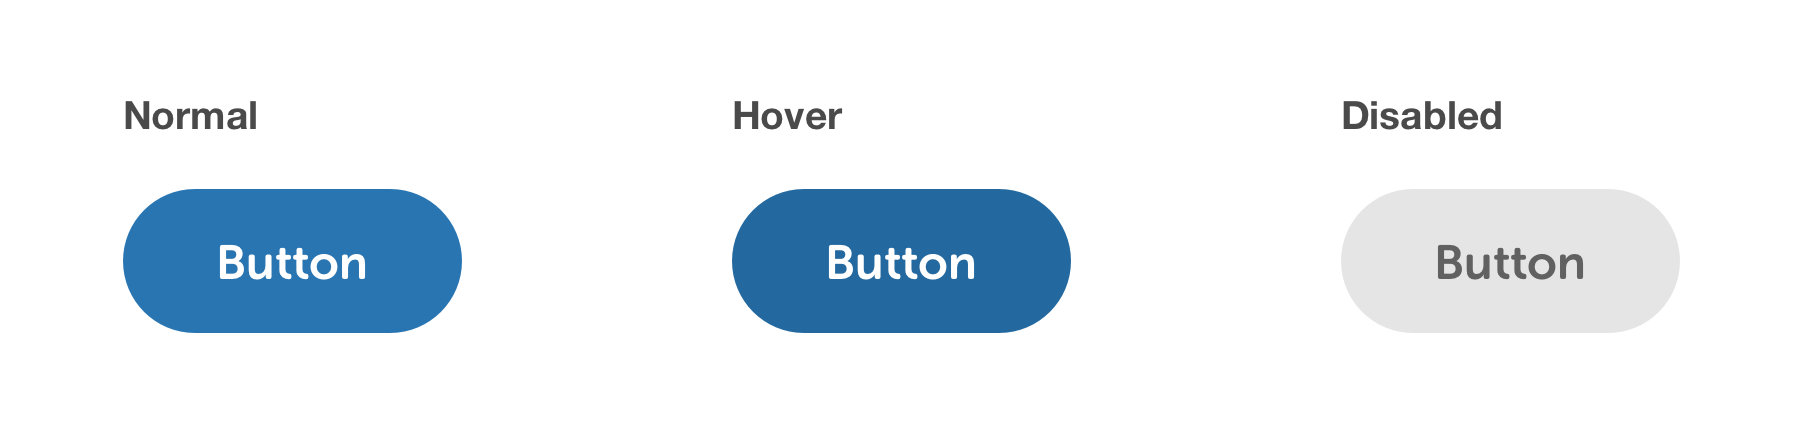
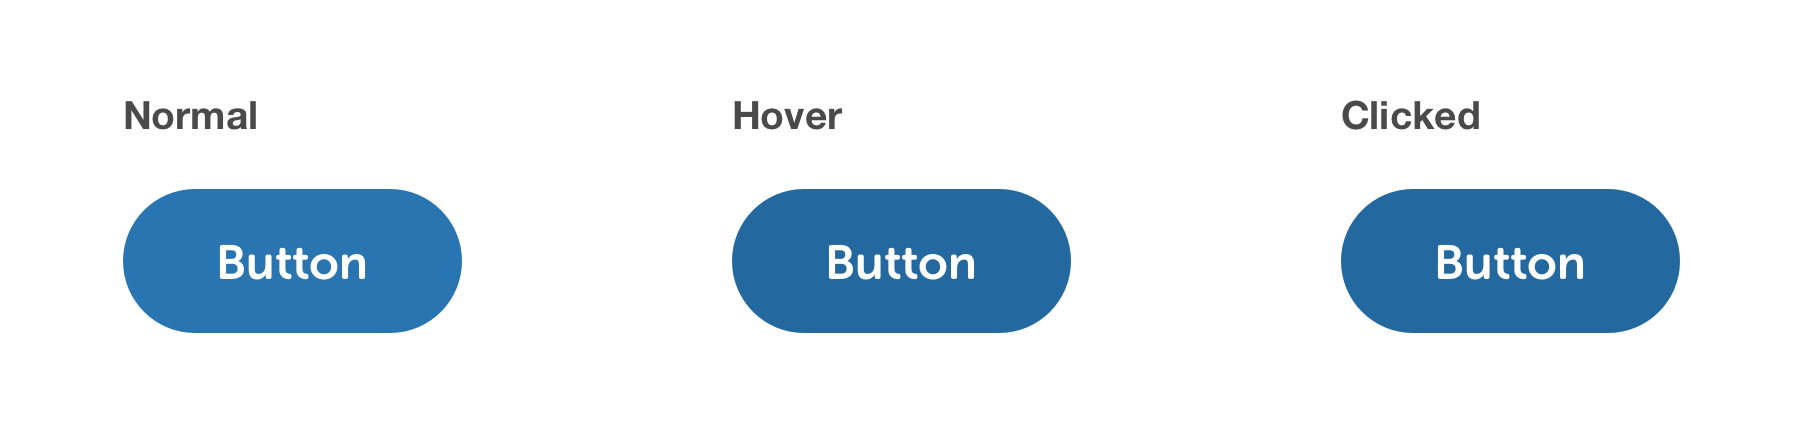
GitBook: [master] one page and 20 assets modified

Changed region(s): [[0.7467, 0.4303, 0.9333, 0.7991], [0.7467, 0.2459, 0.84, 0.3073]]

diff --git a/sse-digital-styleguide/components/buttons/buttons.md b/sse-digital-styleguide/components/buttons/buttons.md
@@ -31,7 +31,7 @@ line-height: 24px;
 
 ### Light theme
 
-![](../../../.gitbook/assets/primary-button.png)
+![](../../../.gitbook/assets/primary-button%20%281%29.png)
 
 ```css
 /* Normal */
@@ -41,14 +41,13 @@ color: #FFF;
 /* Hover */
 background-color: #23699F;
 
-/* Disabled */
-background-color: #E5E5E5;
-color: #616161;
+/* Clicked */
+background-color: #205D8E;
 ```
 
 ### Dark theme
 
-![](../../../.gitbook/assets/primary-button-dark.png)
+![](../../../.gitbook/assets/primary-button-dark%20%281%29.png)
 
 ```css
 /* Styling is as per 'light' theme plus */
@@ -63,7 +62,7 @@ border: 2px solid #FFF;
 
 ### Light theme
 
-![](../../../.gitbook/assets/secondary-button%20%281%29.png)
+![](../../../.gitbook/assets/secondary-button.png)
 
 ```css
 /* Normal */
@@ -72,16 +71,15 @@ color: $secondaryBlue;
 border: 2px solid $secondaryBlue;
 
 /* Hover */
-background-color: #E5E5E5;
+background-color: #E9F1F7;
 
-/* Disabled */
-color: $secondaryMidGrey;
-border: 2px solid #E5E5E5;
+/* Clicked */
+background-color: #D4E3F0;
 ```
 
 ### Dark theme
 
-![](../../../.gitbook/assets/secondary-button-dark.png)
+![](../../../.gitbook/assets/secondary-button-dark%20%281%29.png)
 
 ```css
 /* Normal */
@@ -90,11 +88,10 @@ color: #FFF;
 border: 2px solid #FFF;
 
 /* Hover */
-background-color: #003E79;
+background-color: #004687;
 
-/* Hover */
-color: rgba(255,255,255,.5);
-border: 2px solid rgba(255,255,255,.5);
+/* Clicked */
+background-color: #00386C;
 ```
 
 ## Destructive button
@@ -103,7 +100,7 @@ border: 2px solid rgba(255,255,255,.5);
 
 ### Light theme
 
-![](../../../.gitbook/assets/destructive-button.png)
+![](../../../.gitbook/assets/destructive-button%20%281%29.png)
 
 ```css
 /* Normal */
@@ -111,11 +108,10 @@ background-color: $alertRed;
 color: #FFF;
 
 /* Hover */
-background-color: #C7161C;
+background-color: #CA2B30;
 
-/* Disabled */
-background-color: #E5E5E5;
-color: #616161;
+/* Clicked */
+background-color: #B4262B;
 ```
 
 ### Dark theme
@@ -144,9 +140,8 @@ color: #FFFFFF;
 /* Hover */
 background-color: #177407;
 
-/* Disabled */
-background-color: #E5E5E5;
-color: #616161;
+/* Clicked */
+background-color: #146806;
 ```
 
 ### Dark theme
@@ -156,48 +151,5 @@ color: #616161;
 ```css
 /* Styling is as per 'light' theme plus */
 border: 2px solid #FFF;
-```
-
-## Cancel button  \(DEPRECIATED?\)
-
-* Used to cancel an entire process.
-
-![](../../../.gitbook/assets/cancel-button.png)
-
-```css
-/* Normal */
-color: $secondaryMidGrey;
-
-/* Hover */
-background-color: $secondaryLightGrey;
-border: 2px solid #E8E8E8;
-
-/* Clicked */
-border: 2px solid #D3D3D3;
-```
-
-
-
-## Secondary button \(alternate\) \(DEPRECIATED?\)
-
-* An alternative to the regular secondary button style, can be used where there is a less important actions compared to a regular secondary button.
-
-### Light & dark themes
-
-![](../../../.gitbook/assets/secondary-button-alt.png)
-
-```css
-/* Normal */
-background-color: $secondaryLightGrey;
-color: $secondaryMidGrey;
-border: 2px solid #E0E0E0;
-
-/* Hover */
-background-color: #FFFFFF;
-border: 2px solid $secondaryMidGrey;
-
-/* Clicked */
-background-color: $secondaryLightGrey;
-border: 2px solid #D3D3D3;
 ```
 
